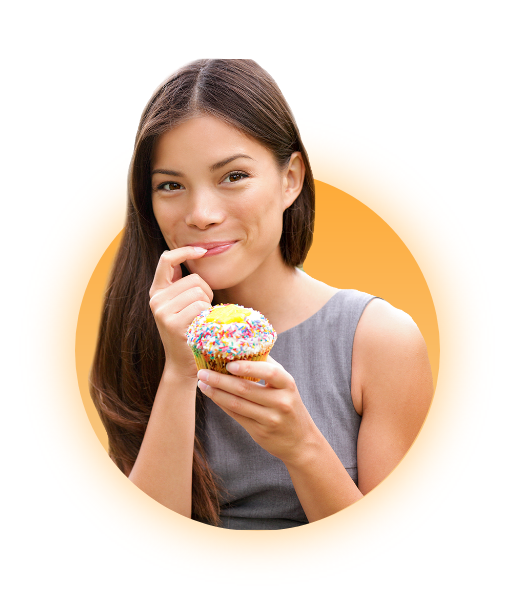
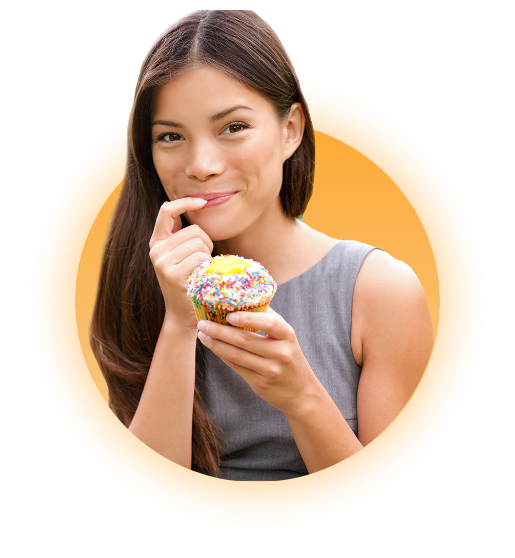
migliorato immagine jumbotron e vertical nav user

Changed region(s): [[0.1243, 0.0, 0.8699, 0.8835], [0.1243, 0.4875, 0.1553, 0.5484], [0.7767, 0.6093, 0.8078, 0.6398]]

diff --git a/resources/sass/partials/_user-content.scss b/resources/sass/partials/_user-content.scss
@@ -7,42 +7,47 @@
     }
     
     //Inizio Menu Verticale
-    .icons-container {
-        display: flex;
-        flex-direction: column;
-        align-items: center;
-        padding-top: 21px;
+    .vertical-nav {
+        background-color: $background_light;
 
-        .home-icon {
-            margin-top: 11px;
-
-            &.active {
-                margin-top: 0;
+        .icons-container {
+            display: flex;
+            flex-direction: column;
+            align-items: center;
+            padding-top: 21px;
+    
+            .home-icon {
+                margin-top: 11px;
+    
+                &.active {
+                    margin-top: 0;
+                }
             }
-        }
-
-        .icon {
-            font-size: 1.3rem;
-            margin-bottom: 2.5rem;
-            transition: color .4s, background-color .4s, font-size .4s;
-            cursor: pointer;
-
-            &:hover {
-                color: $secondary_color;
-            }
-
-            &.active {
-                font-size: 1.7rem;
-                color: #FFFFFF;
-                background-color: $secondary_color;
-                width: 3.5rem;
-                height: 3.5rem;
-                border-radius: 50%;
-                text-align: center;
-                line-height: 3.5rem;
+    
+            .icon {
+                font-size: 1.3rem;
+                margin-bottom: 2.5rem;
+                transition: color .4s, background-color .4s, font-size .4s;
+                cursor: pointer;
+    
+                &:hover {
+                    color: $secondary_color;
+                }
+    
+                &.active {
+                    font-size: 1.7rem;
+                    color: #FFFFFF;
+                    background-color: $secondary_color;
+                    width: 3.5rem;
+                    height: 3.5rem;
+                    border-radius: 50%;
+                    text-align: center;
+                    line-height: 3.5rem;
+                }
             }
         }
     }
+    
 
     //Fine Menu Verticale
 

diff --git a/public/css/app.css b/public/css/app.css
@@ -11207,10 +11207,15 @@ h6 {
 
 .client .my-jumbotron .banner-image {
   filter: drop-shadow(0 0 10px rgba(255, 168, 35, 0.2));
+  height: 100%;
+  display: flex;
+  align-items: center;
+  justify-content: center;
 }
 
 .client .my-jumbotron .banner-image img {
-  width: 100%;
+  height: 100%;
+  width: auto;
 }
 
 .client .types-section {
@@ -11880,33 +11885,37 @@ h6 {
   margin-bottom: 1rem;
 }
 
-.user .icons-container {
+.user .vertical-nav {
+  background-color: #FFFFFF;
+}
+
+.user .vertical-nav .icons-container {
   display: flex;
   flex-direction: column;
   align-items: center;
   padding-top: 21px;
 }
 
-.user .icons-container .home-icon {
+.user .vertical-nav .icons-container .home-icon {
   margin-top: 11px;
 }
 
-.user .icons-container .home-icon.active {
+.user .vertical-nav .icons-container .home-icon.active {
   margin-top: 0;
 }
 
-.user .icons-container .icon {
+.user .vertical-nav .icons-container .icon {
   font-size: 1.3rem;
   margin-bottom: 2.5rem;
   transition: color 0.4s, background-color 0.4s, font-size 0.4s;
   cursor: pointer;
 }
 
-.user .icons-container .icon:hover {
+.user .vertical-nav .icons-container .icon:hover {
   color: #24A1FF;
 }
 
-.user .icons-container .icon.active {
+.user .vertical-nav .icons-container .icon.active {
   font-size: 1.7rem;
   color: #FFFFFF;
   background-color: #24A1FF;

diff --git a/resources/sass/partials/_client-content.scss b/resources/sass/partials/_client-content.scss
@@ -153,9 +153,14 @@
 
         .banner-image {
             filter: drop-shadow(0 0 10px rgba($primary_color, .2));
+            height: 100%;
+            display: flex;
+            align-items: center;
+            justify-content: center;
             
             img {
-                width: 100%;
+                height: 100%;
+                width: auto;
             }
         }
     }
